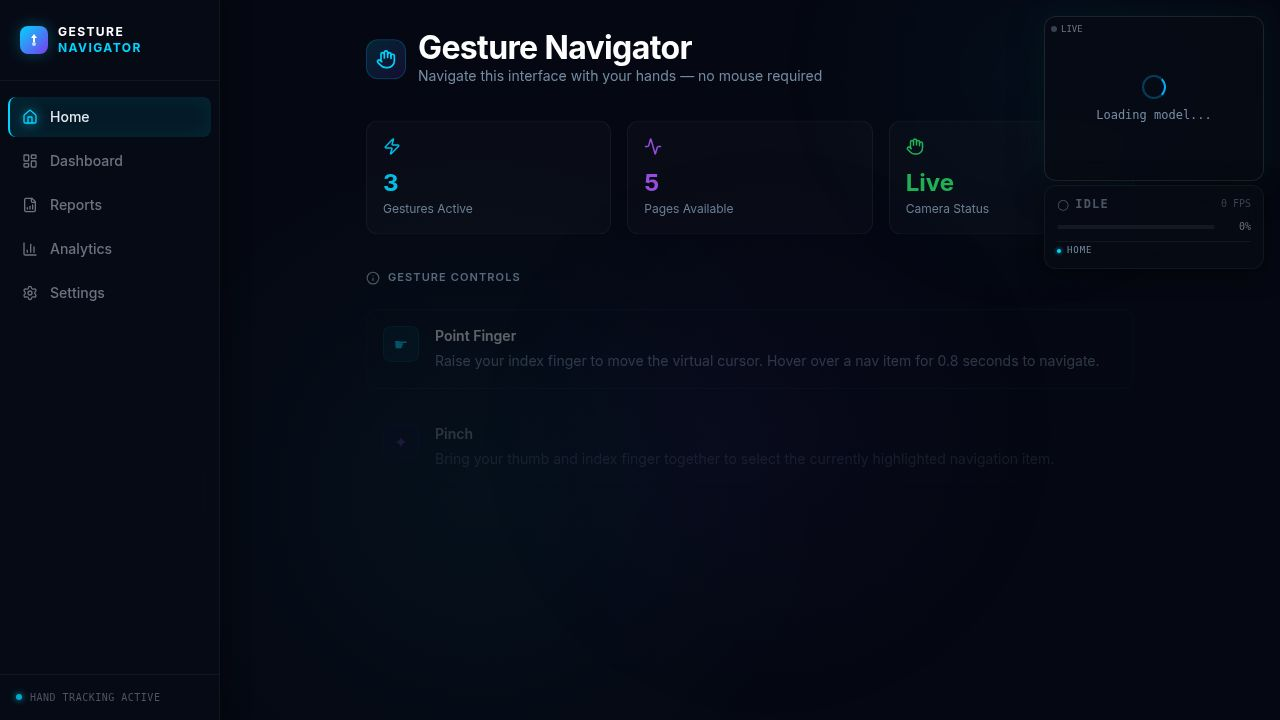
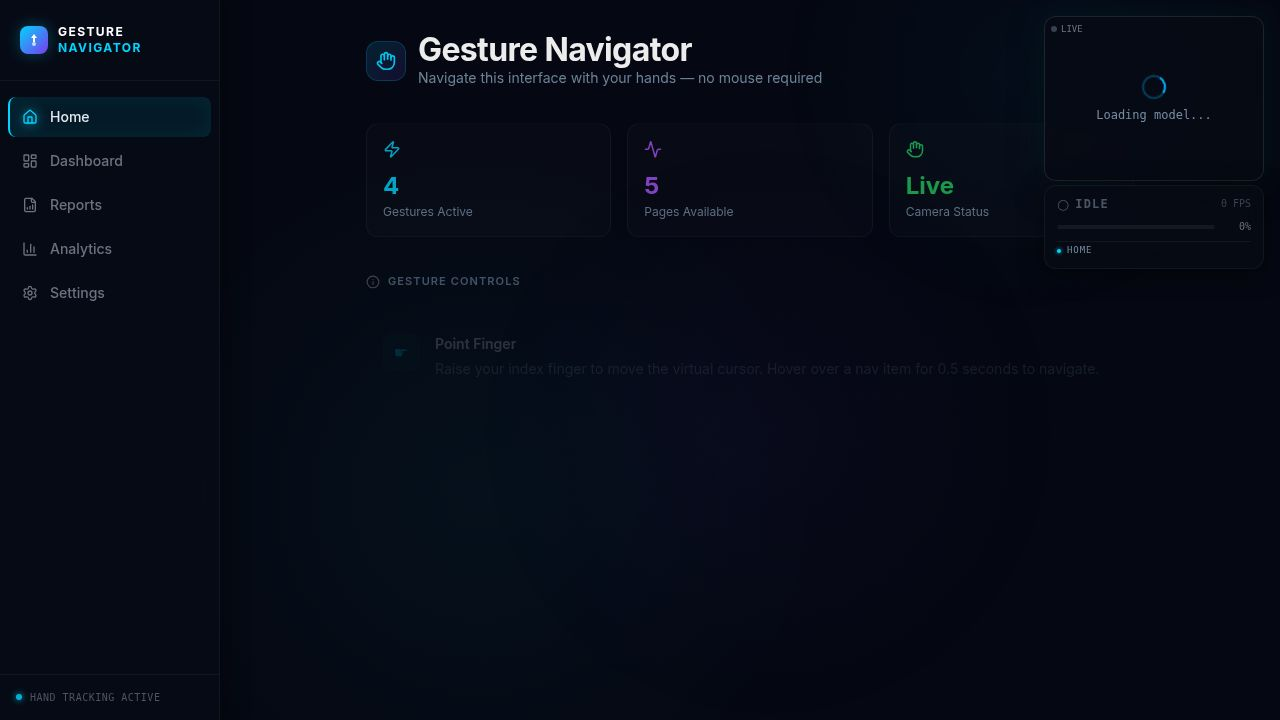
Fix settings for gesture control and reset functionality
Update Settings page to include the "Two Fingers" gesture toggle and ensure all gestures are reset correctly.

Replit-Commit-Author: Agent
Replit-Commit-Session-Id: f4bce356-f2ac-420e-bd8e-f773f01ce0c5
Replit-Commit-Checkpoint-Type: full_checkpoint
Replit-Commit-Event-Id: f6145989-d5cb-4327-96aa-b1bd62184bc0
Replit-Commit-Screenshot-Url: https://storage.googleapis.com/screenshot-production-us-central1/d35475b0-543c-4022-9cff-03ee3cb5931e/f4bce356-f2ac-420e-bd8e-f773f01ce0c5/7uijFjs
Replit-Helium-Checkpoint-Created: true

diff --git a/artifacts/gesture-nav/src/pages/Settings.tsx b/artifacts/gesture-nav/src/pages/Settings.tsx
@@ -93,7 +93,7 @@ export default function Settings() {
   const { gestureSettings, updateSettings } = useGestureContext();
 
   const handleReset = () => {
-    updateSettings({ pointFingerEnabled: true, pinchEnabled: true, openPalmEnabled: true, sensitivity: 0.6 });
+    updateSettings({ pointFingerEnabled: true, pinchEnabled: true, openPalmEnabled: true, twoFingerEnabled: true, sensitivity: 0.6 });
   };
 
   return (
@@ -159,6 +159,13 @@ export default function Settings() {
               desc: "Bring thumb and index together to select hovered item",
               glyph: "✦",
               color: "#a855f7",
+            },
+            {
+              key: "twoFingerEnabled" as const,
+              label: "Two Fingers",
+              desc: "Peace sign — hand up scrolls up, hand down scrolls down",
+              glyph: "✌",
+              color: "#f59e0b",
             },
             {
               key: "openPalmEnabled" as const,